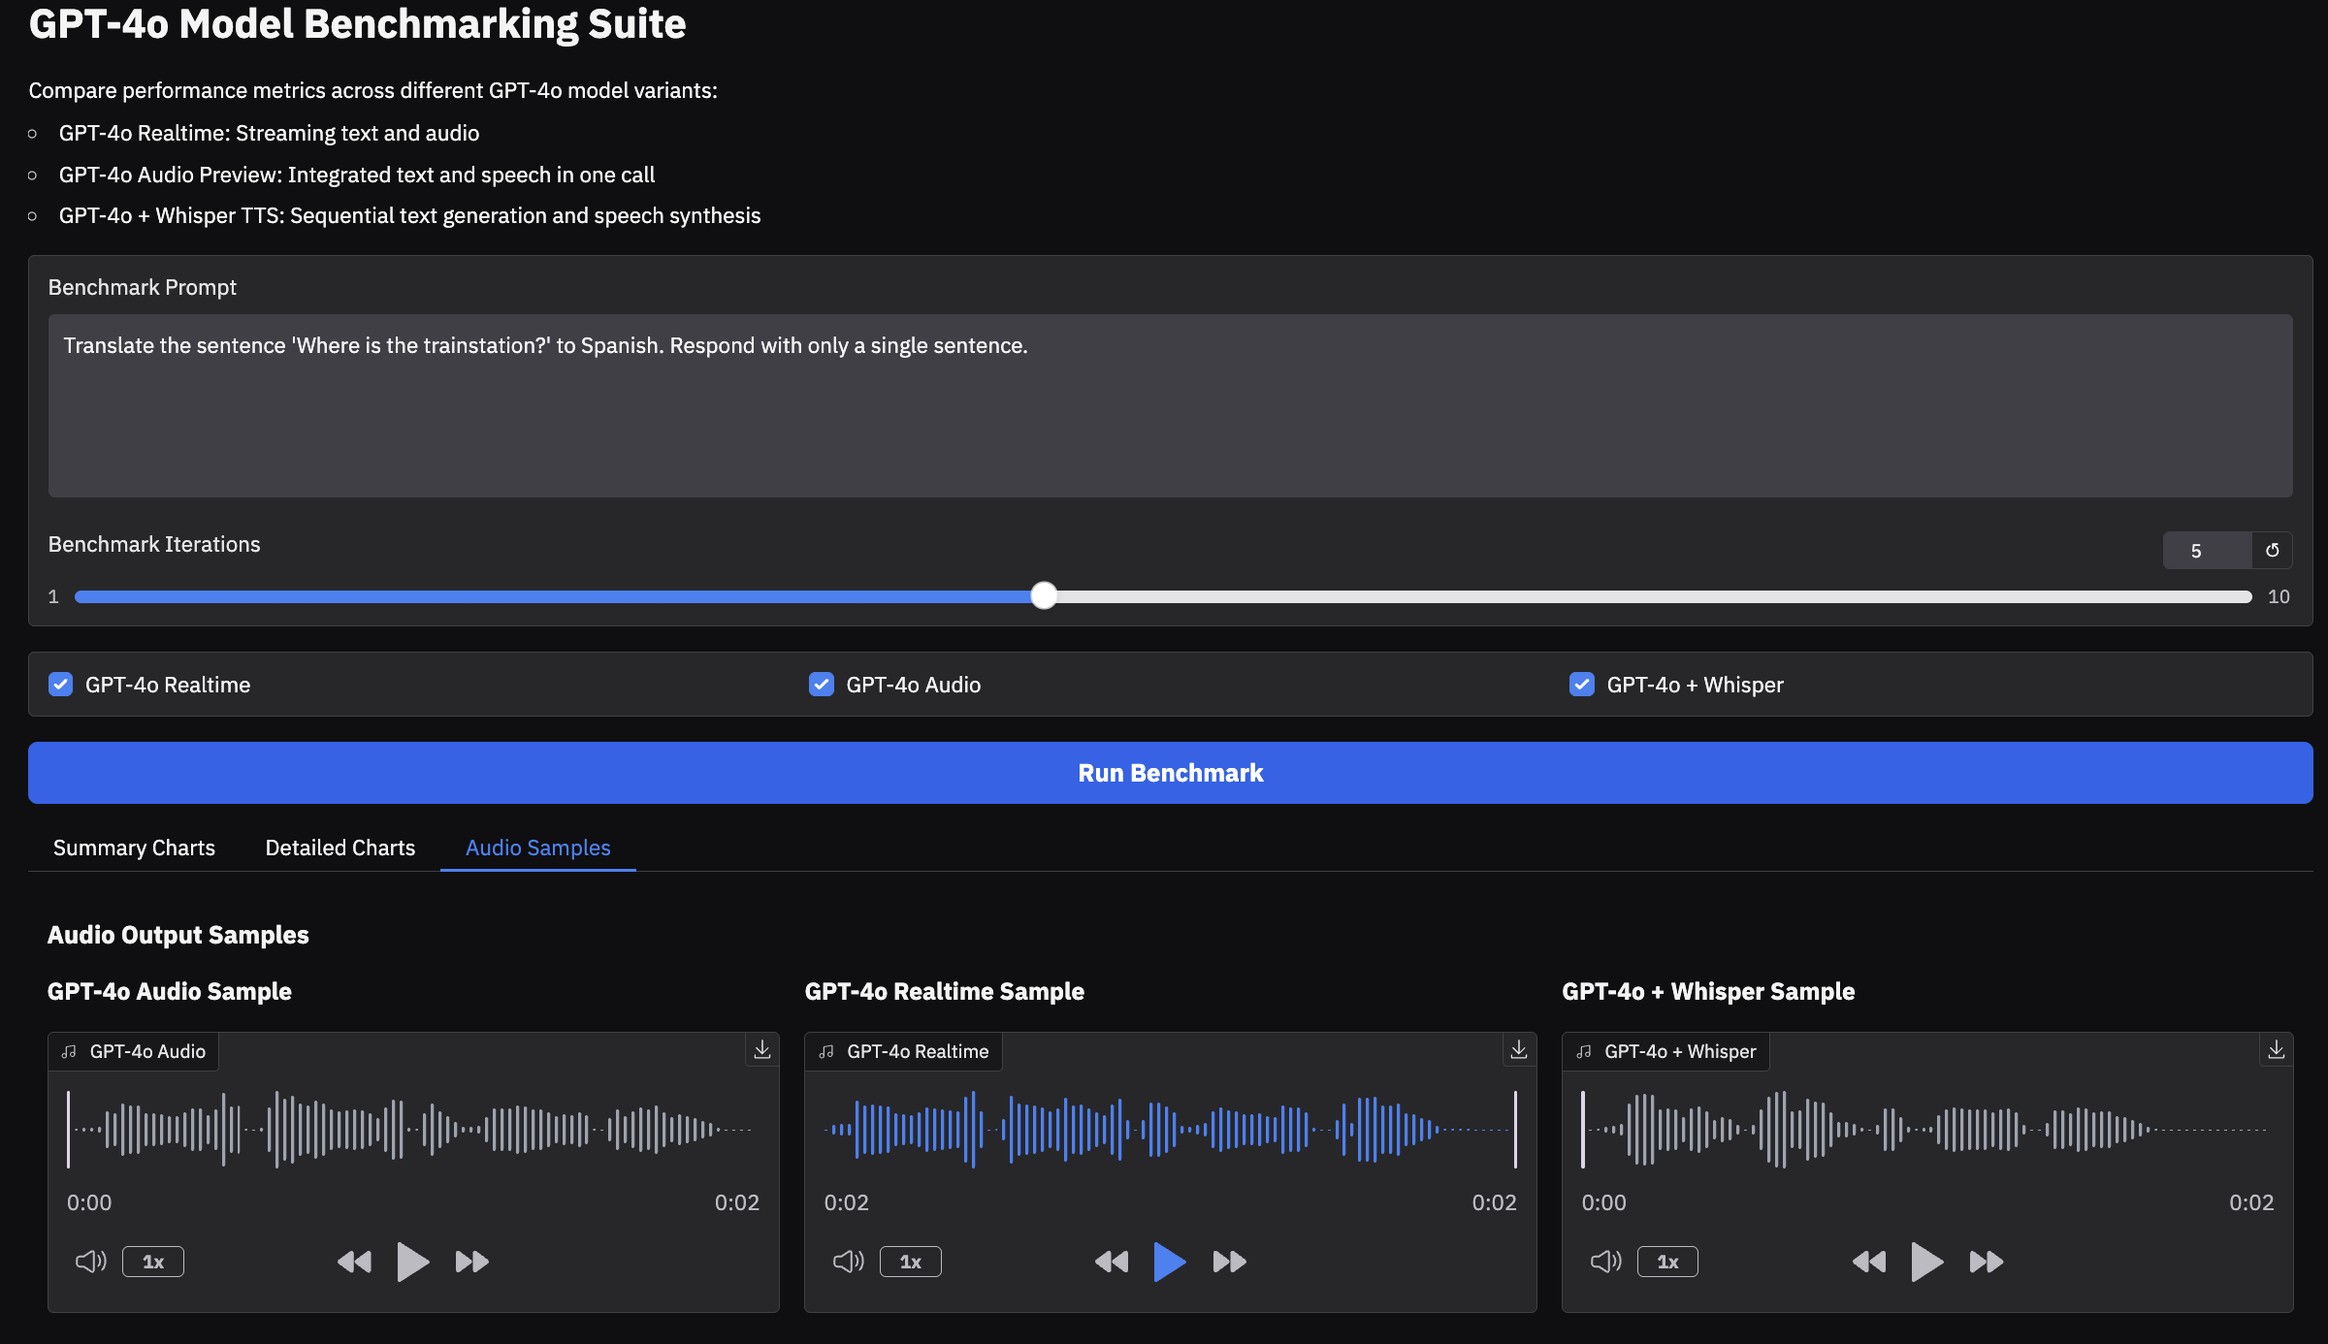
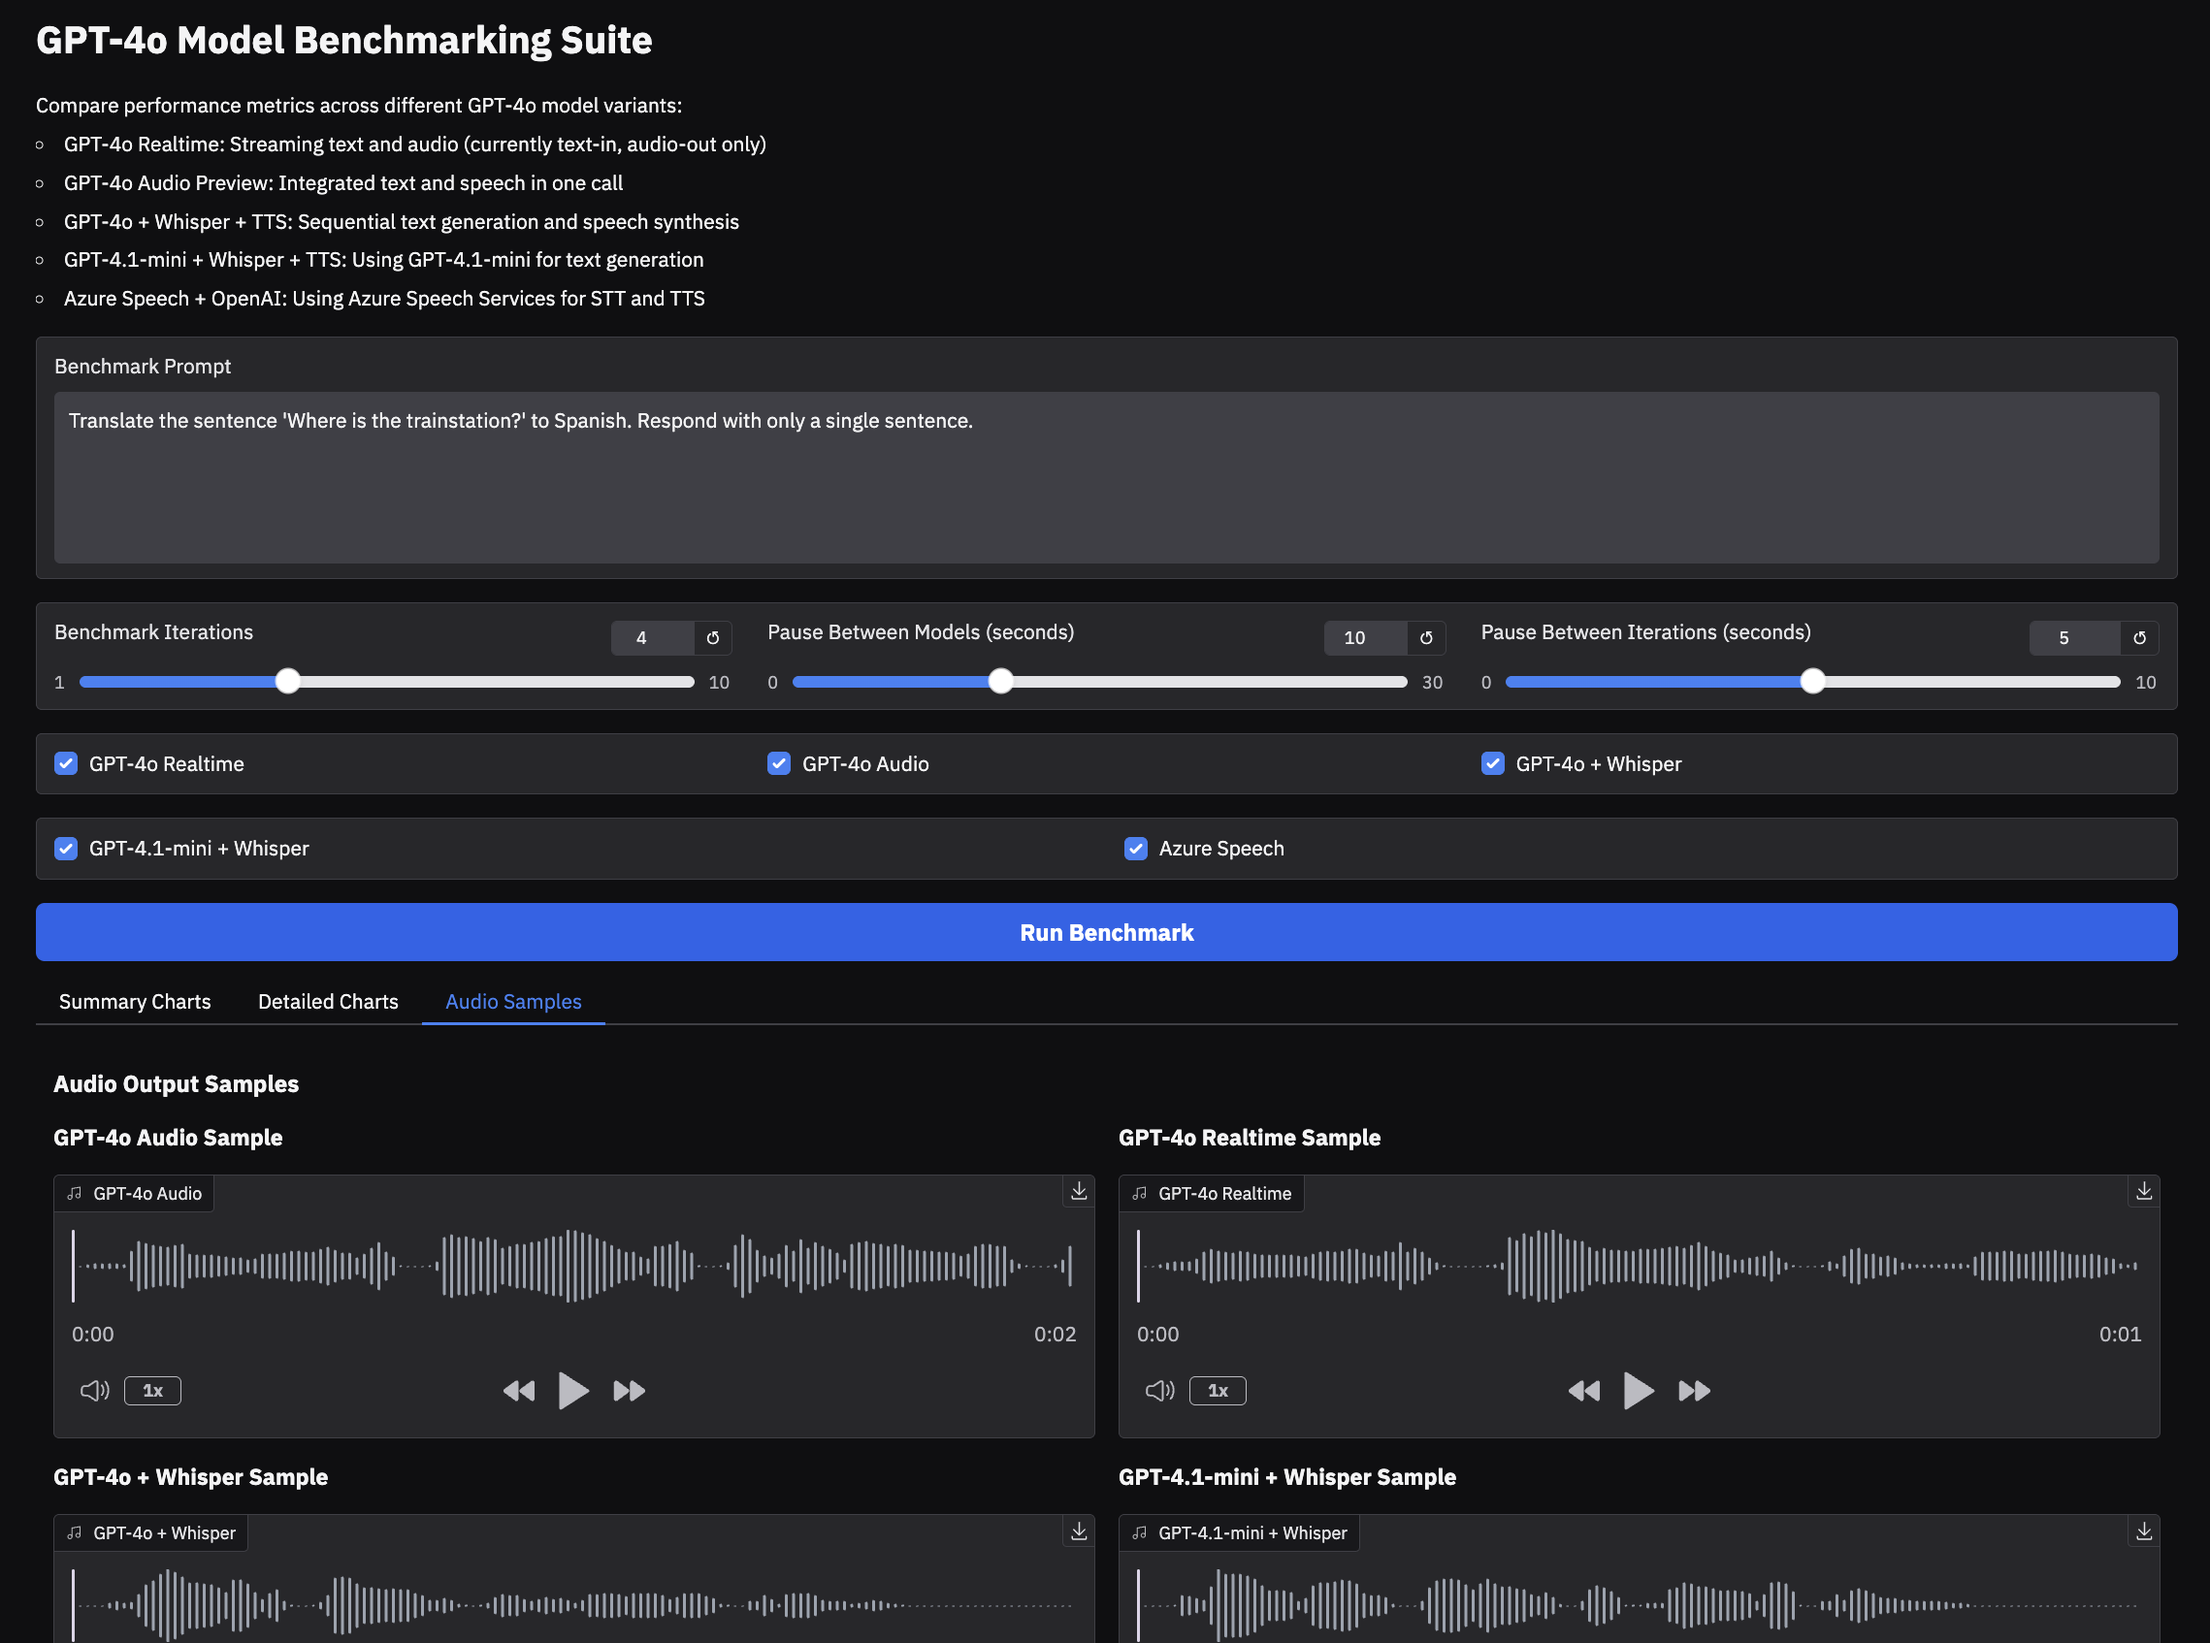
feat: add iteration pause configuration and update benchmark logic

Changed region(s): [[0.0, 0.0, 0.9974, 1.0]]

diff --git a/app.py b/app.py
@@ -16,7 +16,7 @@ import gradio as gr
 from typing import List, Dict, Any, Tuple, Optional
 
 from benchmark_runner import BenchmarkRunner
-from config import DEFAULT_PROMPT, BENCHMARK_ITERATIONS, BENCHMARK_PAUSE_SECONDS, APP_PORT, SHARE_APP
+from config import DEFAULT_PROMPT, BENCHMARK_ITERATIONS, BENCHMARK_PAUSE_SECONDS, ITERATION_PAUSE_SECONDS, APP_PORT, SHARE_APP
 from utils.exceptions import BenchmarkError
 
 # Configure logger
@@ -515,6 +515,7 @@ async def run_benchmark(
     include_azure_speech: bool,
     include_gpt41_mini_whisper: bool,
     pause_seconds: float = BENCHMARK_PAUSE_SECONDS,
+    iteration_pause: float = ITERATION_PAUSE_SECONDS,
     progress=gr.Progress()
 ) -> Tuple:
     """
@@ -529,15 +530,18 @@ async def run_benchmark(
         include_azure_speech: Whether to include the Azure Speech model
         include_gpt41_mini_whisper: Whether to include the GPT-4.1-mini + Whisper model
         pause_seconds: Number of seconds to pause between model benchmarks
+        iteration_pause: Number of seconds to pause between iterations
         progress: Gradio progress indicator
 
     Returns:
         Tuple containing benchmark results and visualizations
     """
     # Update the pause seconds in config for this run
-    global BENCHMARK_PAUSE_SECONDS
+    global BENCHMARK_PAUSE_SECONDS, ITERATION_PAUSE_SECONDS
     original_pause = BENCHMARK_PAUSE_SECONDS
+    original_iteration_pause = ITERATION_PAUSE_SECONDS
     BENCHMARK_PAUSE_SECONDS = pause_seconds
+    ITERATION_PAUSE_SECONDS = iteration_pause
 
     # Determine which models to benchmark
     selected_models = []
@@ -564,7 +568,8 @@ async def run_benchmark(
         summary_df, detailed_metrics, audio_samples = await benchmark_runner.run_benchmark(
             prompt=prompt,
             iterations=iterations,
-            selected_models=selected_models
+            selected_models=selected_models,
+            iteration_pause=iteration_pause
         )
 
         progress(0.8, desc="Generating charts...")
@@ -615,8 +620,9 @@ async def run_benchmark(
         logger.error(f"Unexpected error: {e}", exc_info=True)
         return (f"An unexpected error occurred: {str(e)}", None, None, None, None, None, None, None, None, None)
     finally:
-        # Restore original pause setting
+        # Restore original settings
         BENCHMARK_PAUSE_SECONDS = original_pause
+        ITERATION_PAUSE_SECONDS = original_iteration_pause
 
 
 def create_gradio_interface() -> gr.Blocks:
@@ -632,8 +638,8 @@ def create_gradio_interface() -> gr.Blocks:
         Compare performance metrics across different GPT-4o model variants:
         - GPT-4o Realtime: Streaming text and audio (currently text-in, audio-out only)
         - GPT-4o Audio Preview: Integrated text and speech in one call
-        - GPT-4o + Whisper TTS: Sequential text generation and speech synthesis
-        - GPT-4.1-mini + Whisper TTS: Using GPT-4.1-mini for text generation with Whisper TTS
+        - GPT-4o + Whisper + TTS: Sequential text generation and speech synthesis
+        - GPT-4.1-mini + Whisper + TTS: Using GPT-4.1-mini for text generation
         - Azure Speech + OpenAI: Using Azure Speech Services for STT and TTS
         """)
 
@@ -661,6 +667,14 @@ def create_gradio_interface() -> gr.Blocks:
                         maximum=30,
                         value=BENCHMARK_PAUSE_SECONDS,
                         step=1
+                    )
+
+                    iteration_pause_input = gr.Slider(
+                        label="Pause Between Iterations (seconds)",
+                        minimum=0,
+                        maximum=10,
+                        value=ITERATION_PAUSE_SECONDS,
+                        step=0.5
                     )
 
                 with gr.Row():
@@ -743,7 +757,8 @@ def create_gradio_interface() -> gr.Blocks:
                 include_gpt4o_whisper,
                 include_azure_speech,
                 include_gpt41_mini_whisper,
-                pause_input
+                pause_input,
+                iteration_pause_input
             ],
             outputs=[
                 summary_table,

diff --git a/benchmark_runner.py b/benchmark_runner.py
@@ -20,6 +20,7 @@ from config import (
     DEFAULT_PROMPT,
     BENCHMARK_ITERATIONS,
     BENCHMARK_PAUSE_SECONDS,
+    ITERATION_PAUSE_SECONDS,
     AZURE_OPENAI_ENDPOINT,
     AZURE_OPENAI_API_KEY,
     AZURE_OPENAI_API_VERSION,
@@ -114,7 +115,8 @@ class BenchmarkRunner:
     async def run_benchmark(self,
                             prompt: Optional[str] = None,
                             iterations: Optional[int] = None,
-                            selected_models: Optional[List[str]] = None) -> Tuple[pd.DataFrame, Dict[str, List[Dict[str, Any]]], Dict[str, bytes]]:
+                            selected_models: Optional[List[str]] = None,
+                            iteration_pause: Optional[float] = None) -> Tuple[pd.DataFrame, Dict[str, List[Dict[str, Any]]], Dict[str, bytes]]:
         """
         Run benchmarks for selected models with the given prompt.
 
@@ -122,6 +124,7 @@ class BenchmarkRunner:
             prompt: Text prompt to use for benchmarking (uses DEFAULT_PROMPT if None)
             iterations: Number of iterations to run (uses BENCHMARK_ITERATIONS if None)
             selected_models: List of model keys to benchmark (or None for all)
+            iteration_pause: Number of seconds to pause between iterations (uses ITERATION_PAUSE_SECONDS if None)
 
         Returns:
             Tuple of (summary DataFrame, detailed metrics dict, audio samples dict)
@@ -129,6 +132,7 @@ class BenchmarkRunner:
         # Set default values
         benchmark_prompt = prompt or DEFAULT_PROMPT
         benchmark_iterations = iterations or BENCHMARK_ITERATIONS
+        pause_between_iterations = iteration_pause if iteration_pause is not None else ITERATION_PAUSE_SECONDS
 
         # Get the models to benchmark
         target_models = self._get_target_models(selected_models)
@@ -146,7 +150,7 @@ class BenchmarkRunner:
         # Run benchmarks for each model
         for i, (model_key, model) in enumerate(target_models.items()):
             logger.info(
-                f"Benchmarking {model.name} ({iterations} iterations)...")
+                f"Benchmarking {model.name} ({benchmark_iterations} iterations)...")
             model_metrics = []
 
             # Add a pause between models (except before the first model)
@@ -175,6 +179,12 @@ class BenchmarkRunner:
                         all_audio[model_key] = audio
 
                     logger.debug(f"  Completed with metrics: {metrics}")
+
+                    # Add a pause between iterations (except after the last iteration)
+                    if i < benchmark_iterations - 1 and pause_between_iterations > 0:
+                        logger.debug(
+                            f"  Pausing for {pause_between_iterations}s before next iteration...")
+                        await asyncio.sleep(pause_between_iterations)
 
                 except Exception as e:
                     logger.error(

diff --git a/config.py b/config.py
@@ -72,6 +72,15 @@ except ValueError:
         "Invalid BENCHMARK_PAUSE_SECONDS value, using default of 10.0")
     BENCHMARK_PAUSE_SECONDS = 10.0
 
+# Pause between iterations within a benchmark (in seconds)
+try:
+    ITERATION_PAUSE_SECONDS = float(
+        os.getenv("ITERATION_PAUSE_SECONDS", "1.0"))
+except ValueError:
+    logging.warning(
+        "Invalid ITERATION_PAUSE_SECONDS value, using default of 1.0")
+    ITERATION_PAUSE_SECONDS = 1.0
+
 # Maximum token limit for benchmarks
 MAX_TOKENS = int(os.getenv("MAX_TOKENS", "1000"))
 
